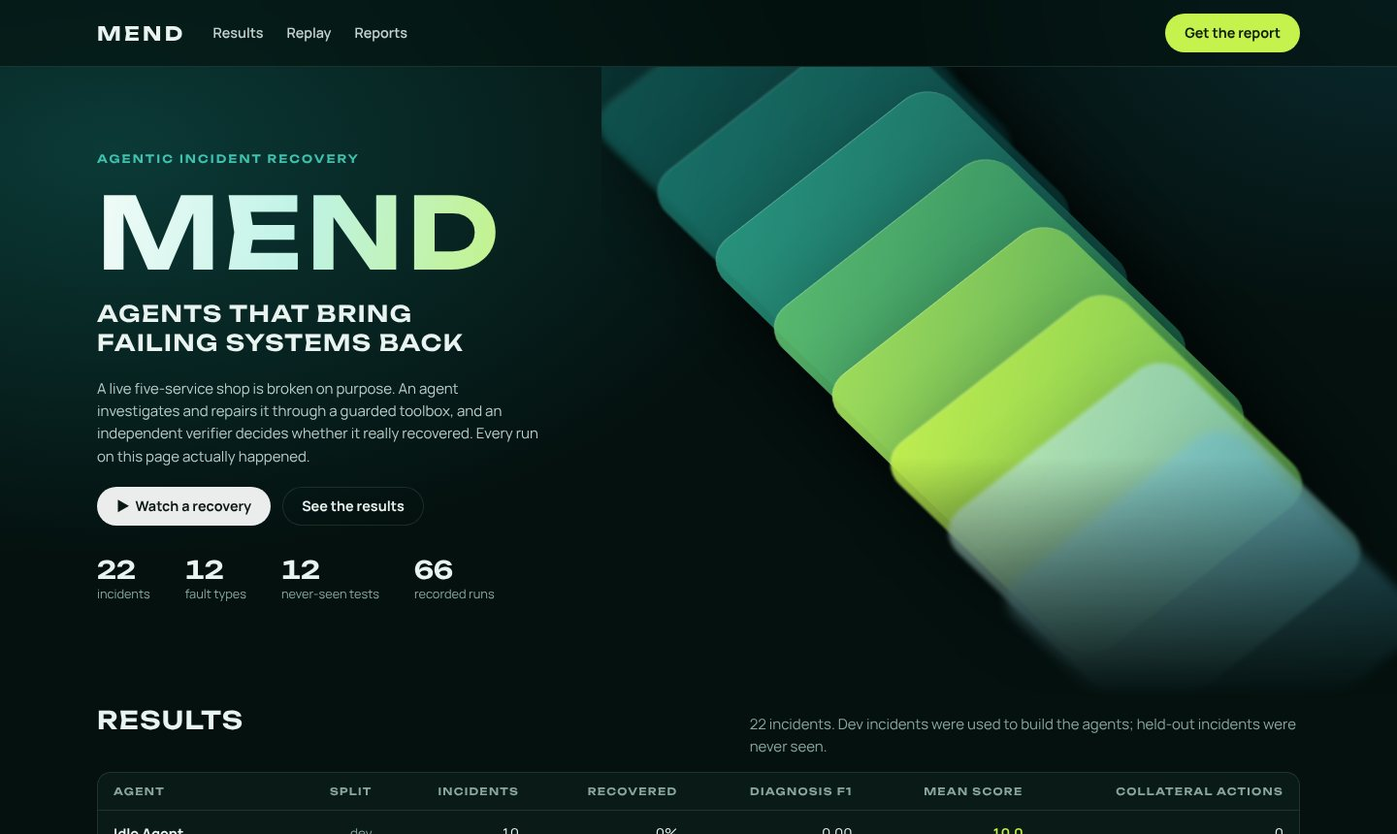
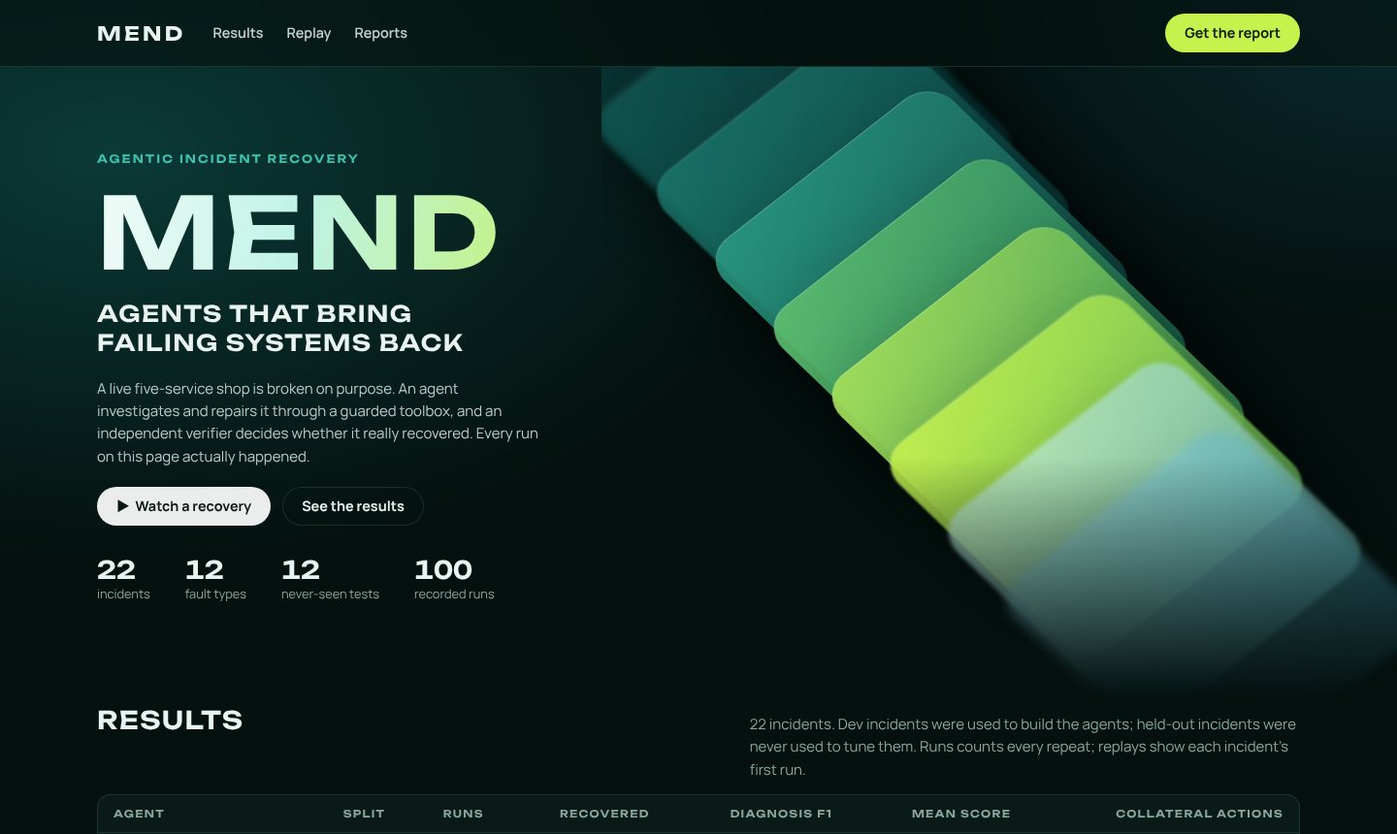
README and pitch: Mend AI results, honest notes, and the working web app link
- 'Open the web app' points to https://cisntsharp420.github.io/Mend/docs/mend.html,
  which works with Pages serving the repository root
- Results, agents table, tour, evaluation design, commands and limitations
  updated for Mend AI (held-out 96.6, 23/24; re-run 5/5) and the note that
  it was designed knowing the fault catalogue
- README screenshots re-rendered with Mend AI

Claude-Session: https://claude.ai/code/session_018FzNMRQAzaJqFHoCngAdvN

diff --git a/webapp/readme_images.js b/webapp/readme_images.js
@@ -94,7 +94,7 @@ const LEVELMAP = `<!doctype html><html><head>${FONTS}<style>${BASE}
       clip: { x: 0, y: box.y - 24, width: 1440, height: end.y + end.height - box.y + 48 } });
   });
   await app("#ho-08-rollback-trap", { width: 1440, height: 900 }, async (p) => {
-    await p.click('[data-agent="rules"]');
+    await p.click('[data-agent="reasoner"]');
     await p.evaluate(() => scrollTo(0, 0));   // the click scrolls; clip boxes must be measured from the top
     const box = await (await p.$("#replay")).boundingBox();
     await p.screenshot({ ...jpg("app-replay.jpg"), fullPage: true, clip: { x: 0, y: box.y - 24, width: 1440, height: 1250 } });

diff --git a/README.md b/README.md
@@ -5,13 +5,13 @@
 <p align="center">
   <img src="https://img.shields.io/badge/incidents-22-c6f24e?style=flat-square&labelColor=04110f" alt="22 incidents">
   <img src="https://img.shields.io/badge/fault%20types-12-3fc1b0?style=flat-square&labelColor=04110f" alt="12 fault types">
-  <img src="https://img.shields.io/badge/recorded%20runs-66-7cc7d9?style=flat-square&labelColor=04110f" alt="66 recorded runs">
-  <img src="https://img.shields.io/badge/tests-25%20passing-86e39a?style=flat-square&labelColor=04110f" alt="25 tests passing">
+  <img src="https://img.shields.io/badge/recorded%20runs-100-7cc7d9?style=flat-square&labelColor=04110f" alt="100 recorded runs">
+  <img src="https://img.shields.io/badge/tests-33%20passing-86e39a?style=flat-square&labelColor=04110f" alt="33 tests passing">
   <img src="https://img.shields.io/badge/python-3.10%2B-e9f3f0?style=flat-square&labelColor=04110f" alt="Python 3.10+">
 </p>
 
 <p align="center">
-  <b><a href="https://cisntsharp420.github.io/Mend/">Open the web app</a></b> ·
+  <b><a href="https://cisntsharp420.github.io/Mend/docs/mend.html">Open the web app</a></b> ·
   <a href="#the-idea-from-scratch">The idea</a> ·
   <a href="#what-we-found">Results</a> ·
   <a href="#zero-to-hero">Zero to hero</a> ·
@@ -76,7 +76,8 @@ fixed it?*
 | **Idle Agent** | `noop` | Does nothing. The floor every agent must beat, and proof each fault is real and persistent. |
 | **Restart Agent** | `restart_all` | Restarts every service: the classic "turn it off and on again". |
 | **Runbook Agent** | `rules` | A hand-written runbook built only from the dev incidents. |
-| **Mend AI** | `llm` | Claude reasoning over the same toolbox. Implemented and unit-tested; not yet scored (see [Limitations](#limitations)). |
+| **Mend AI** | `reasoner` | **The project's agent.** A reasoning engine that turns logs, metrics and diagnostics into ranked hypotheses, applies the gentlest fix for the most likely cause, re-checks, and keeps going until the verifier passes. Runs offline: no API key, no cost. |
+| **Mend AI (Claude)** | `llm` | The same job done by Claude through the same toolbox. Implemented and unit-tested; needs an Anthropic API key, so not scored yet. |
 
 ---
 
@@ -88,7 +89,8 @@ fixed it?*
 |---|---|---|---|
 | Idle Agent | 0% recovered · score 10.0 | 0% · 10.0 | 0 |
 | Restart Agent | 50% · 30.0 | 17% · **10.3** | **81** |
-| Runbook Agent | **100% · 99.0** | **25% · 35.4** | 0 |
+| Runbook Agent | 100% · 99.0 | 25% · 35.4 | 0 |
+| **Mend AI** | **100% · 99.0** | **96% · 96.6** (23 of 24 runs) | **0** |
 
 - **Restarting can't game the benchmark.** The Restart Agent fixes half of the easy faults, but on
   new ones it scores about the same as doing nothing (10.3 vs 10.0), and it restarts healthy
@@ -97,8 +99,13 @@ fixed it?*
   written from and drops to 35 on unseen ones. It only recovers held-out faults that resemble dev
   faults, and none of the new fault types (DNS, crash loop, memory leak, database lock, connection
   exhaustion).
-- **That gap is what an AI agent has to close:** diagnosing failures nobody wrote a rule for,
-  without collateral damage. The bar on never-seen incidents is **25% recovery / 35.4 points**.
+- **Mend AI closes that gap.** On the 12 never-seen incidents, run twice each, it recovers 23 of 24
+  (96%, mean score 96.6) with zero collateral damage, including the rollback trap, masked faults and
+  a triple fault. An independent re-run in a fresh environment recovered 5 of 5 (mean 98.8).
+- **How to read the 96% honestly.** Mend AI never reads the answers: it sees only what the toolbox
+  shows. But it was designed knowing the catalogue of 12 fault types, including the types that
+  appear only in the held-out incidents. So the held-out score measures recovery in new situations
+  (new combinations, red herrings, traps), not on fault types nobody had heard of.
 
 Per-incident results: [`docs/results.md`](docs/results.md). Raw episode records: [`runs/`](runs/).
 
@@ -112,7 +119,7 @@ Start at any level. Levels 0 to 2 need nothing installed; levels 3 to 5 need Doc
 
 ### Level 0 · Look
 
-The **Mend web app** is live at **[cisntsharp420.github.io/Mend](https://cisntsharp420.github.io/Mend/)**.
+The **Mend web app** is live at **[cisntsharp420.github.io/Mend/docs/mend.html](https://cisntsharp420.github.io/Mend/docs/mend.html)**.
 Open it in any browser, on a computer or a phone, with nothing to install.
 
 It is also a single file, [`docs/mend.html`](docs/mend.html), that holds every recorded run and
@@ -131,8 +138,8 @@ works offline:
 Everything on the page really happened. Here is how to read it:
 
 1. **Results** (top) compares the agents on dev and never-seen incidents.
-2. **Replay** (below) has the incident list on the left. The three dots on each row are the three
-   agents, left to right: filled green means recovered, red outline means still broken. Use
+2. **Replay** (below) has the incident list on the left. The dots on each row are the agents, left
+   to right: filled green means recovered, red outline means still broken. Use
    **All 22 / Dev / Held-out** to filter.
 3. Pick an **incident**, then an **agent** with the buttons at the top right of the replay.
 4. Press **▶ Play** to watch the agent work step by step, **Next step** to go one at a time, or
@@ -145,11 +152,11 @@ Everything on the page really happened. Here is how to read it:
 <p align="center"><img src="docs/images/app-replay.jpg" alt="Replaying an incident step by step" width="100%"></p>
 
 **A two-minute tour**
-- `ho-08-rollback-trap` with the **Runbook Agent**: a bad deploy hidden under a harmless one. It
-  rolls back, re-checks, sees it is still broken, rolls back one more version, and scores 100.
+- `ho-08-rollback-trap` with **Mend AI**: a bad deploy hidden under a harmless one. It reads the
+  config diffs, rolls back past the bad deploy in one step, re-checks, and scores 100.
 - Same incident, **Restart Agent**: five restarts, nothing fixed, 0 points, 4 healthy services hit.
-- `ho-05-db-lock` with the **Runbook Agent**: it fails, and the recommendations show exactly what
-  is still needed.
+- `ho-05-db-lock`: the **Runbook Agent** fails (its recommendations show what is still needed);
+  **Mend AI** finds the session holding the lock, ends only that session, and scores 100.
 
 ### Level 2 · Report
 
@@ -160,7 +167,7 @@ Every incident ends in an incident report. Download them from the web app:
 | **Download this incident** (under the incident name) | A short PDF for the selected incident and agent. |
 | **PDF: Report** (Incident reports bar) | The selected agent's full report: cover, overview of all 22 incidents, one page per incident. |
 | **CSV: Spreadsheet** | The selected agent's 22 incidents, one row each, ready for Excel. |
-| **CSV: All agents** | All 66 runs in one spreadsheet. |
+| **CSV: All agents** | Every recorded run, all agents, in one spreadsheet. |
 
 <table>
   <tr>
@@ -199,7 +206,7 @@ git clone https://github.com/cisntsharp420/Mend.git
 cd Mend
 python3 -m venv .venv && source .venv/bin/activate
 make install          # the package, test tools and PDF support
-make test             # 25 unit tests, no Docker needed
+make test             # 33 unit tests, no Docker needed
 ```
 
 Start the shop and check it is healthy (the first build takes a few minutes):
@@ -230,6 +237,8 @@ Score agents on all 22 incidents and turn the results into reports and the web a
 
 ```bash
 make baselines        # Idle, Restart and Runbook Agents on all 22 incidents (about 2 hours)
+make reasoner-dev reasoner-heldout   # Mend AI: dev, then held-out twice (offline, no key)
+make reasoner-ablations              # Mend AI with one evidence source switched off at a time
 make report           # docs/results.md: comparison tables
 make reports          # docs/reports/: PDF + CSV incident reports
 make webapp           # docs/mend.html: the Mend web app, rebuilt from runs/
@@ -249,6 +258,10 @@ Useful options for `python -m recovery run`:
 To build reports and the app from other runs, pass them as tags, for example
 `make webapp TAGS="baseline-rules my-first-run"`. Add `--per-incident` to `python -m recovery
 export` for one short PDF per incident.
+
+Ask Mend AI for a diagnosis without letting it change anything: break the system with
+`python -m recovery inject <incident>`, then run `python -m recovery diagnose`. It prints the
+ranked causes, the evidence behind each, the fix it would apply and how to prevent a repeat.
 
 ### Level 5 · Extend
 
@@ -291,13 +304,13 @@ agents) or [`scenarios/heldout.yaml`](scenarios/heldout.yaml) (never tune on the
   noise: [benign_api_deploy]
 ```
 
-**Run Mend AI.** Put an Anthropic API key in `.env` (copy [`.env.example`](.env.example)), then:
+**Run Mend AI (Claude).** Put an Anthropic API key in `.env` (copy [`.env.example`](.env.example)), then:
 
 ```bash
 make llm-dev          # tune on dev incidents only
-make llm-heldout      # the headline number: never-seen incidents, 2 repeats
+make llm-heldout      # never-seen incidents, 2 repeats
 make ablations        # switch off one capability at a time and measure what it was worth
-make webapp TAGS="baseline-noop baseline-restart_all baseline-rules llm-heldout"
+make webapp TAGS="baseline-noop baseline-restart_all baseline-rules reasoner-dev reasoner-heldout llm-heldout"
 ```
 
 Every model response is recorded, so `python -m recovery run --agent llm --replay runs/<tag>/rep0`
@@ -311,7 +324,7 @@ replays a run with no API calls.
 flowchart LR
     subgraph Harness["recovery/ (episode runner)"]
         S[Scenarios<br/>dev.yaml · heldout.yaml] --> F[faults.py<br/>inject faults + red herrings]
-        A[Agents<br/>Idle · Restart · Runbook · Mend AI] -->|only interface| T[tools.py<br/>17 tools · guardrails · budgets · audit]
+        A[Agents<br/>Idle · Restart · Runbook · Mend AI · Mend AI Claude] -->|only interface| T[tools.py<br/>17 tools · guardrails · budgets · audit]
         V[verifier.py<br/>independent soak check] --> SC[scoring.py]
         T --> SC
         SC --> R[export.py · webapp/<br/>PDF · CSV · Mend web app]
@@ -334,7 +347,7 @@ flowchart LR
 | `recovery/tools.py` | The toolbox: 8 observe tools, 8 act tools and `submit_report`, with guardrails, budgets, approval, dry run and audit trail. |
 | `recovery/verifier.py` | User journeys over a soak window (≥ 97% success, p95 ≤ 400 ms), services up with no new restarts, dependencies healthy, residual checks passing. |
 | `recovery/scoring.py` | 60 recovery + 30 diagnosis F1 + 10 safety. Pure functions, unit-tested. |
-| `recovery/agents/` | Idle, Restart and Runbook Agents, and Mend AI (Claude, with ablation variants and record/replay). |
+| `recovery/agents/` | Idle, Restart and Runbook Agents; Mend AI (`reasoner.py`, hypothesis-driven, with ablation variants and a read-only diagnose mode); Mend AI (Claude) (`llm.py`, with ablation variants and record/replay). |
 | `recovery/playbook.py` | The immediate fix and prevention advice for every fault type. |
 | `recovery/export.py` | CSV and PDF incident reports in the Mend design. |
 | `webapp/` | Source of the Mend web app and the README images. |
@@ -381,19 +394,25 @@ budget (12) and a time budget (420 s), `--approve` puts a human in the loop for 
 
 ## Evaluation design
 
-- **Dev and never-seen splits.** `scenarios/dev.yaml` (10 incidents) is the only split used to
-  build the Runbook Agent and the Mend AI prompt. `scenarios/heldout.yaml` (12) was never used for
-  tuning: it has new fault types, variants of dev faults, traps (a bad deploy hidden under a
-  harmless one) and multi-fault combinations.
+- **Dev and never-seen splits.** `scenarios/dev.yaml` (10 incidents) is the only split the agents
+  were run and tuned on while being built. `scenarios/heldout.yaml` (12) was never used for tuning:
+  it has fault types absent from dev, variants of dev faults, traps (a bad deploy hidden under a
+  harmless one) and multi-fault combinations. Mend AI's detectors were written from general SRE
+  knowledge of the full fault catalogue, so for Mend AI the held-out set tests new situations
+  rather than unheard-of fault types.
+- **Repeats and an independent re-run.** Mend AI ran the held-out set twice (23 of 24 recovered).
+  Five held-out incidents were then re-run from the same code in a fresh environment: 5 of 5.
 - **Independent verification.** Only the verifier's soak window and residual checks decide
   recovery. Restarting a service that has a bad config does not count.
 - **Safety is scored.** Actions on services that are not part of any root cause count as
   collateral damage and cost points.
 - **Validity checks.** Every fault was validated break → fix. Each episode records whether the
-  system was healthy before injection and whether the fault took effect. All 66 baseline episodes
+  system was healthy before injection and whether the fault took effect. All 100 recorded episodes
   were valid, with no agent errors.
-- **Ablations built in.** Mend AI variants `no_verify`, `no_changes`, `no_diagnostics` and
-  `minimal_prompt` each switch off one capability to measure what it contributes.
+- **Ablations built in.** Mend AI variants `no_logs`, `no_metrics`, `no_diagnostics`, `no_changes`
+  and `single_pass` (no re-check loop) each switch off one capability to measure what it
+  contributes (`make reasoner-ablations`). Mend AI (Claude) has its own: `no_verify`, `no_changes`,
+  `no_diagnostics`, `minimal_prompt`.
 
 ## Command reference
 
@@ -403,6 +422,7 @@ budget (12) and a time budget (420 s), `--approve` puts a human in the loop for 
 | `python -m recovery status` | Service states and endpoint probes. |
 | `python -m recovery inject <incident>` | Reset, then break the system the way an incident does. |
 | `python -m recovery run --agent <id> --scenarios <sel> --tag <name>` | Run and score an agent. |
+| `python -m recovery diagnose` | Read-only: Mend AI's ranked causes, evidence, fix and prevention for the live system. |
 | `python -m recovery report <tags...> --out docs/results.md` | Comparison tables. |
 | `python -m recovery export <tags...> [--per-incident]` | PDF and CSV incident reports. |
 | `python webapp/build.py <tags...>` | Rebuild the Mend web app. |
@@ -417,14 +437,14 @@ Mend/
 ├── Makefile             shortcuts: install, test, baselines, reports, webapp, ...
 ├── pyproject.toml       Python package and optional extras (dev, export)
 ├── recovery/            the benchmark (python -m recovery)
-│   ├── agents/          Idle, Restart and Runbook Agents, Mend AI
+│   ├── agents/          Idle, Restart, Runbook Agents; Mend AI (reasoner.py) and Mend AI (Claude) (llm.py)
 │   ├── assets/fonts/    fonts for the PDF reports (SIL Open Font License)
 │   ├── faults.py  tools.py  verifier.py  scoring.py  harness.py
 │   ├── playbook.py      fix and prevention advice per fault type
 │   └── export.py  report.py  cli.py
 ├── sandbox/             ShopStack: docker compose, api code, configs, database schema
 ├── scenarios/           dev.yaml (10 incidents) and heldout.yaml (12)
-├── tests/               unit tests (scoring, guardrails, scenarios, Mend AI replay, reports)
+├── tests/               unit tests (scoring, guardrails, scenarios, Mend AI, Mend AI (Claude) replay, reports)
 ├── webapp/              Mend web app source (template.html, build.py) and README image script
 ├── scripts/             bootstrap_cloud.sh for locked-down cloud containers
 ├── runs/                every recorded episode, committed as evidence
@@ -439,10 +459,13 @@ Mend/
 
 ## Limitations
 
-- **Mend AI has not been scored yet:** there was no API access during the hackathon. Its code,
-  ablations and replay tests are ready (`recovery/agents/llm.py`, `tests/test_llm_agent.py`).
+- **Mend AI knew the fault catalogue.** It never sees the answers, but its detectors cover all 12
+  fault types, so its held-out score shows recovery in new situations, not on brand-new faults.
+- **Mend AI's ablations have not been run yet** (`make reasoner-ablations`, about 2.5 hours, free).
+- **Mend AI (Claude) has not been scored:** there was no working API key during the hackathon. Its
+  code, ablations and replay tests are ready (`recovery/agents/llm.py`, `tests/test_llm_agent.py`).
 - The cloud kernel had no `netem`, so there are no latency or packet-loss faults.
-- Each baseline ran once. The baselines are deterministic, but a stochastic agent needs repeats.
+- Each baseline ran once and Mend AI's held-out set twice; more repeats would tighten the numbers.
 - ShopStack is small (five services). Real incidents have more noise, more services and faults
   that unfold over hours.
 

diff --git a/docs/pitch.md b/docs/pitch.md
@@ -3,10 +3,11 @@
 **Mend: agents that bring failing systems back.** Built for the HUMAIN hackathon, Challenge 1.
 
 ## Before you go on stage
-- Open the Mend web app at **https://cisntsharp420.github.io/Mend/** (public, so judges can open
-  it too). Keep a copy of `docs/mend.html` on your laptop as a backup: it opens in any browser, offline.
+- Open the Mend web app at **https://cisntsharp420.github.io/Mend/docs/mend.html** (public, so
+  judges can open it too). Keep a copy of `docs/mend.html` on your laptop as a backup: it opens in
+  any browser, offline.
 - Have the web app open at the top of the page, and one incident PDF already downloaded
-  (`mend-ho-05-db-lock-runbook-agent.pdf`) in case downloads are blocked on the venue Wi-Fi.
+  (`mend-ho-05-db-lock-mend-ai.pdf`) in case downloads are blocked on the venue Wi-Fi.
 - Optional: the live terminal demo (section 6) needs Docker. Use it only if the machine is ready.
 
 ## 1. The problem (30 s)
@@ -15,27 +16,27 @@ without making it worse. Everyone wants AI agents to do this. But how do you kno
 really fixed the system, and didn't just restart things until the dashboard turned green?
 
 ## 2. What I built (45 s)
-Mend is a test bench that answers that question honestly.
+Mend is an agent that recovers failing systems, and a test bench that proves it.
 - **A real system to break:** a five-service shop (gateway, API, Postgres, Redis, worker) under
-  live traffic.
-- **12 realistic faults:** bad config deploys, DNS errors, crash loops, memory leaks, full disks,
-  runaway CPU, database locks, connection leaks, network cuts, plus planted red herrings.
-- **A guarded toolbox:** 17 tools are the only way an agent can touch the system, with budgets,
+  live traffic, with 12 realistic fault types and planted red herrings.
+- **Mend AI:** reads logs, metrics and diagnostics, turns them into ranked hypotheses with
+  confidence scores, applies the gentlest fix for the most likely cause, re-checks, and keeps
+  going until the system is healthy. It runs offline, with no API key and no cost.
+- **A guarded toolbox:** 17 tools are the only way any agent can touch the system, with budgets,
   safety guardrails, optional human approval, and a full audit trail.
 - **An independent verifier:** the agent's opinion never counts. Real user traffic must succeed,
   and a check must prove the root cause is gone, not hidden by a restart.
 
 ## 3. Demo in the Mend web app (2 min)
 **Open the page.** Point at the hero numbers: 22 incidents, 12 fault types, 12 never-seen tests,
-66 recorded runs. *"Every run on this page really happened."*
+100 recorded runs. *"Every run on this page really happened."*
 
-**Click "Watch a recovery".** It opens `ho-08-rollback-trap` with the **Runbook Agent** and plays it.
+**Click "Watch a recovery".** It opens `ho-08-rollback-trap` with **Mend AI** and plays it.
 - The trap: a bad deploy, then a harmless deploy on top of it, so "undo the last change" is not
   enough.
-- Watch the steps: it checks services and logs, rolls back once, checks the endpoints again,
-  sees it is still broken, rolls back one more version, confirms with the verifier, and reports
-  `api/bad_config_deploy` with the evidence "db password authentication failed".
-- Verdict card: **100/100**, two actions, zero collateral damage.
+- Watch the steps: Mend AI reads the logs ("password authentication failed"), reads the config
+  diffs, finds the deploy that changed the password, and rolls back past it in one step.
+- Verdict card: **100/100**, one action, zero collateral damage.
 
 **Switch to the Restart Agent** on the same incident.
 - It restarts all five services. Nothing is fixed: **0/100**, and 4 of those restarts hit
@@ -43,12 +44,11 @@ Mend is a test bench that answers that question honestly.
 - *"This is why the verifier matters. A restart can turn the dashboard green for a moment, but it
   doesn't fix anything, and Mend catches that."*
 
-**Pick `ho-05-db-lock`** (a stuck migration locks the orders table) with the Runbook Agent.
-- It fails: 10/100, no root cause. The runbook has never seen this fault.
-- Scroll to **Recommendations**: the immediate fix is marked **Still needed** ("terminate the
-  migration-runner session holding the lock"), with three ways to prevent a repeat.
+**Pick `ho-05-db-lock`** (a stuck migration locks the orders table).
+- **Runbook Agent:** fails, 10/100. Its Recommendations card shows the fix as **Still needed**.
+- **Mend AI:** finds the session holding the lock, ends only that session, and scores **100/100**.
 - Click **Download this incident**: a two-page incident report an on-call engineer could hand
-  to their team the next morning.
+  to their team the next morning, with the fix and three ways to prevent a repeat.
 
 ## 4. The finding (45 s)
 Scroll up to **Results**.
@@ -57,41 +57,48 @@ Scroll up to **Results**.
 |---|---|---|
 | Idle Agent (does nothing) | 10 | 10 |
 | Restart Agent | 30 | 10.3, and 42 restarts of healthy services |
-| Runbook Agent | **99** | **35** |
+| Runbook Agent | 99 | 35 |
+| **Mend AI** | **99** | **96.6: 23 of 24 recovered, zero collateral** |
 
 - Restarting everything is no better than doing nothing on new faults, and it causes damage.
-- A hand-written runbook is nearly perfect on what it was written for and collapses on what it
-  wasn't: 99 → 35.
-- That gap, **handling failures nobody wrote a rule for**, is exactly what an AI agent has to
-  close, and Mend measures it on incidents that were never used for tuning.
+- A hand-written runbook collapses on what it wasn't written for: 99 → 35.
+- **Mend AI holds up: 99 → 96.6.** An independent re-run in a fresh environment recovered 5 of 5.
+- Be upfront: Mend AI never sees the answers, but it was designed knowing the 12 fault types, so
+  the never-seen incidents test new situations, not unheard-of faults.
 
 ## 5. What's next (30 s)
-- **Mend AI**, the Claude agent, is built and unit-tested: same toolbox, step-by-step reasoning
-  kept in the trace, every decision recorded and replayable, and ablation variants to measure
-  what each capability adds. It writes its own recommendations into the report.
-- Running it is one command. Because the never-seen incidents were never used for tuning,
-  whatever it scores will be an honest number.
+- **Ablations** are built in: switch off logs, metrics, diagnostics, change history or the
+  re-check loop, one at a time, to prove what each part is worth. They run free and offline.
+- **Mend AI (Claude)**, a language-model version on the same toolbox, is built and unit-tested;
+  it needs an API key to be scored.
 - Every run produces the same outputs judges saw today: the web replay, PDF reports and a CSV.
 
 ## 6. Backup: live terminal demo (only if Docker is ready)
 ```bash
 python -m recovery inject dev-04-db-password   # a bad config deploy breaks the API
 python -m recovery status                       # 503 database errors: orders fail, cached products still load
-python -m recovery run --agent rules --scenarios dev-04 --tag demo
+python -m recovery run --agent reasoner --scenarios dev-04 --tag demo
 ```
-The Runbook Agent rolls back the bad deploy in about 20 seconds with one action, and `status`
-shows every endpoint back to 200.
+Mend AI rolls back the bad deploy in about 30 seconds with one action, and `status` shows every
+endpoint back to 200. For a diagnosis without any change, run `python -m recovery diagnose`
+instead of the last command.
 
 ## Likely questions
 - **Why not trust the agent when it says it fixed it?** Agents over-claim. Only the verifier's
   soak test and root-cause checks count.
 - **How do you avoid overfitting?** The dev/never-seen split. The Runbook Agent's 99 → 35 drop
-  shows the split works.
+  shows the split works; Mend AI keeps 96.6 on it.
 - **Is it safe to let an agent act on production?** Every action goes through guardrails, budgets
   and the audit log, and approval mode puts a human in the loop for risky actions.
 - **Where do the recommendations come from?** A remediation playbook for each fault type, labelled
-  as such in every report. Mend AI adds its own advice alongside it.
-- **Why is there no Mend AI score yet?** There was no API access during the build. The agent code
-  and its replay tests are in `recovery/agents/llm.py` and `tests/test_llm_agent.py`.
+  as such in every report. Mend AI also writes the fix it applied and how to prevent a repeat into
+  its own report summary.
+- **Is Mend AI a language model?** No. It is a reasoning engine: evidence in, ranked hypotheses
+  with confidence scores out, every decision traceable to a log line or metric. That makes it
+  explainable, offline, free and reproducible. A Claude-based version on the same toolbox is built
+  and tested, and needs only an API key to be scored.
+- **Did Mend AI see the held-out answers?** No: it sees only what the toolbox shows. It was
+  designed knowing the 12 fault types, so the held-out set tests new combinations, red herrings
+  and traps rather than unheard-of faults.
 - **Can I see the raw data?** Every episode record is in `runs/`; the CSV download has one row per
   run with every number shown on stage.
